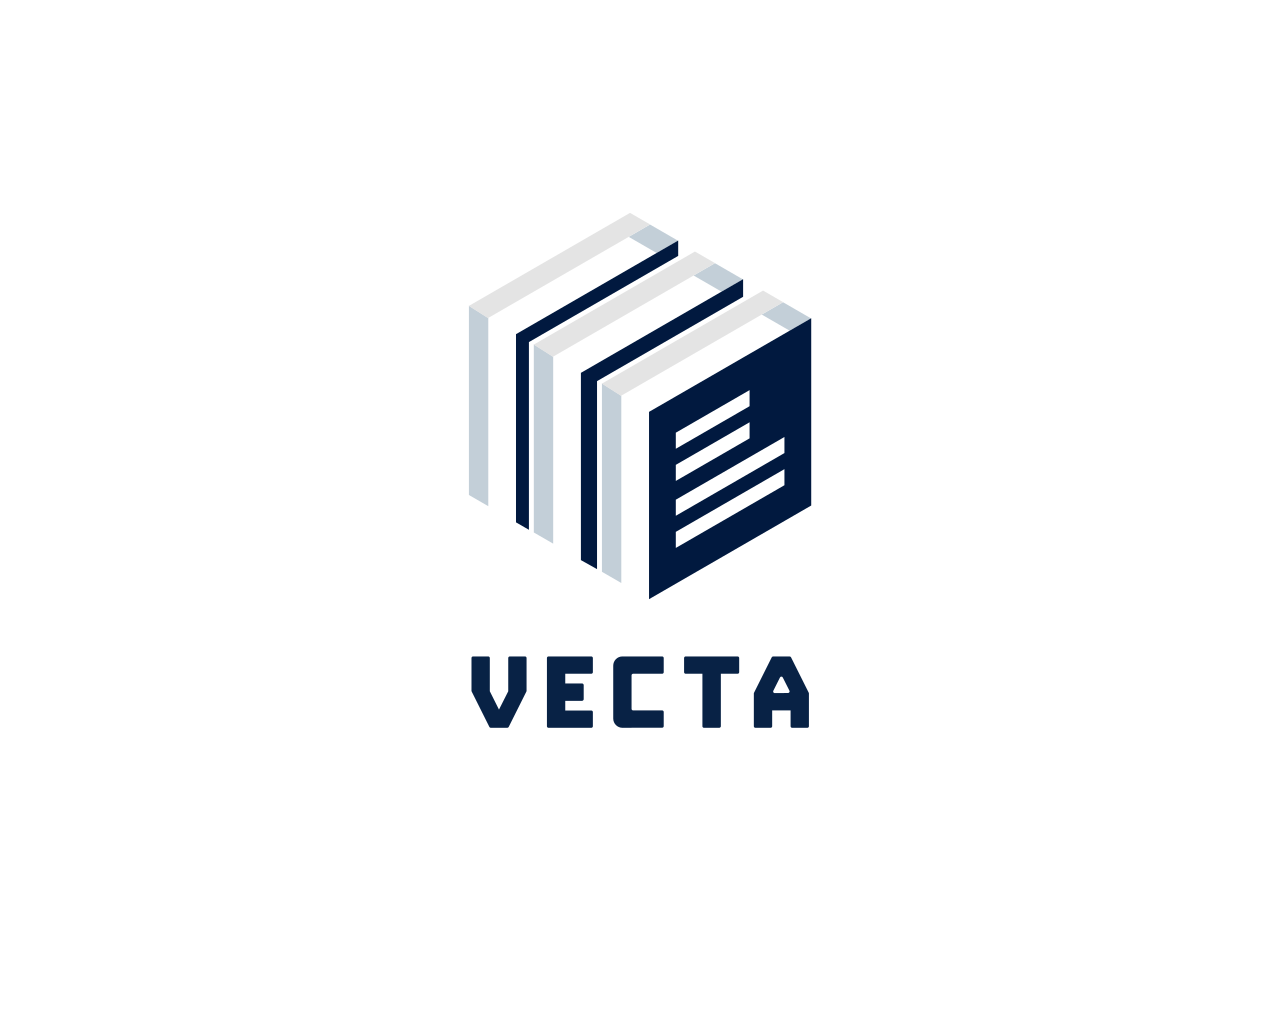
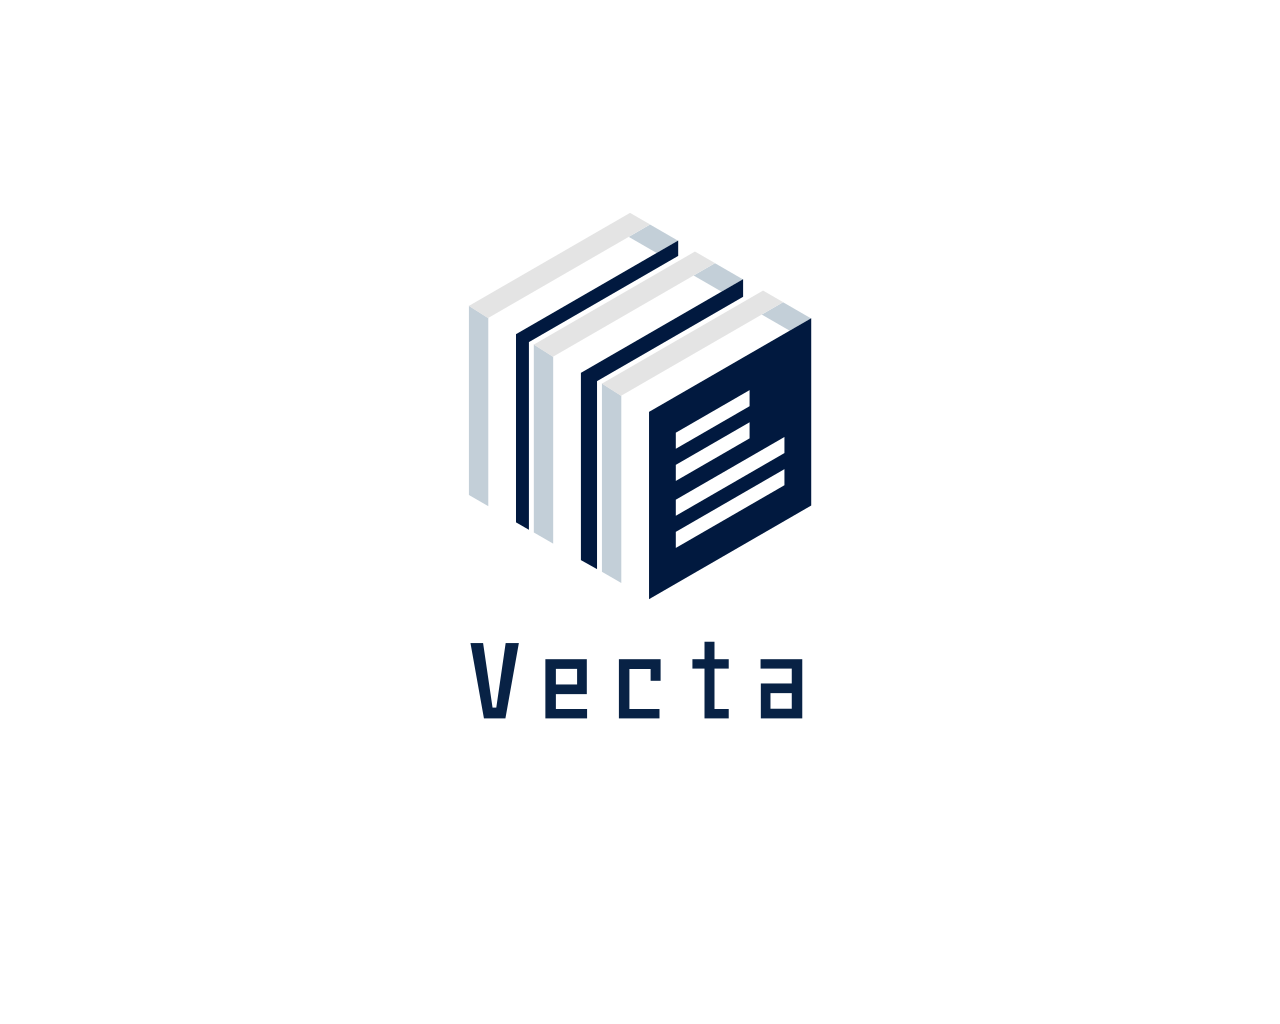
feat: ロゴ画像を大文字から先頭以外は小文字に変更

Changed region(s): [[0.3438, 0.625, 0.6562, 0.7188]]

diff --git a/README.md b/README.md
@@ -1,4 +1,4 @@
-![hero.svg](public/assets/logo.svg)
+![hero.png](public/assets/logo.png)
 
 # vecta.co.jp
 
